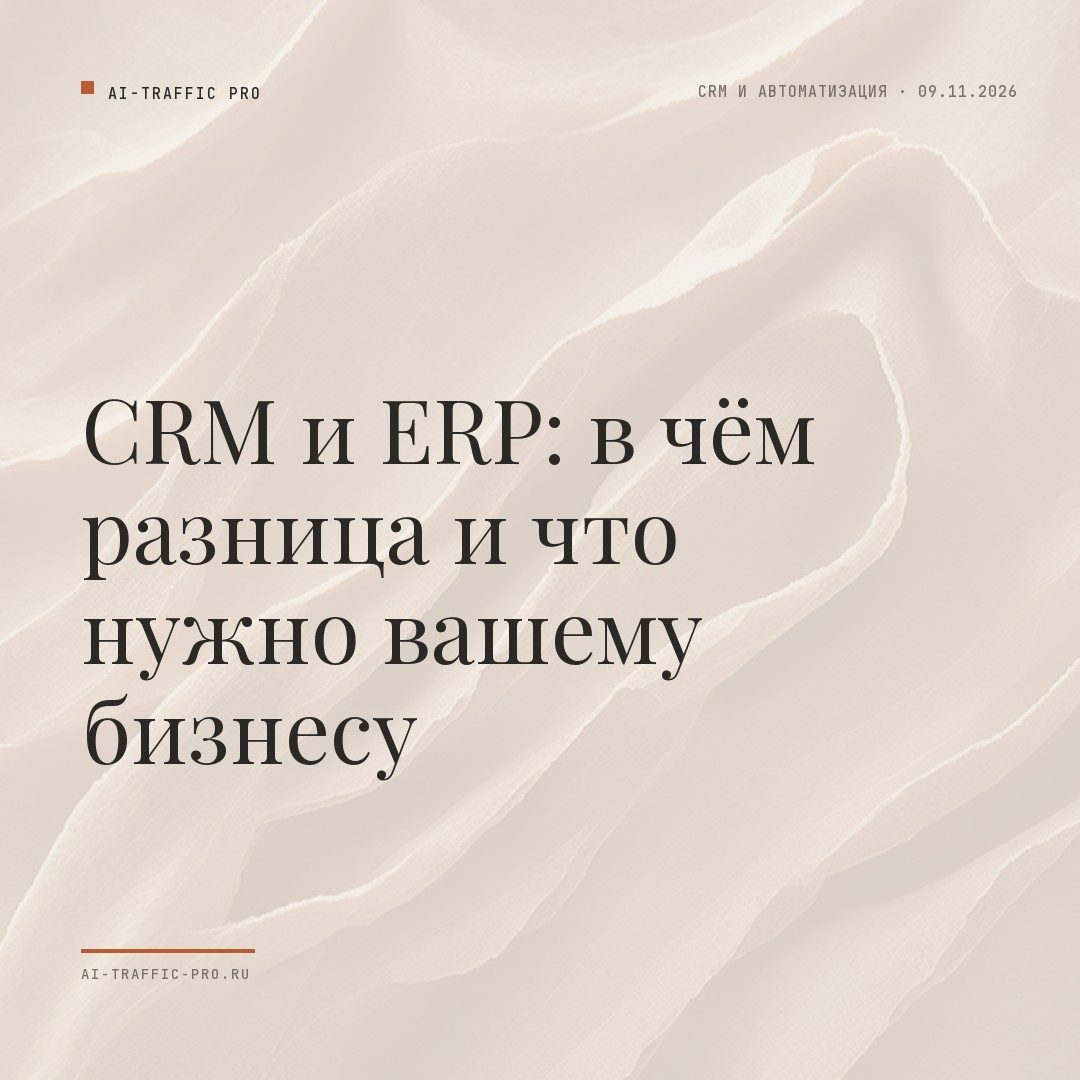
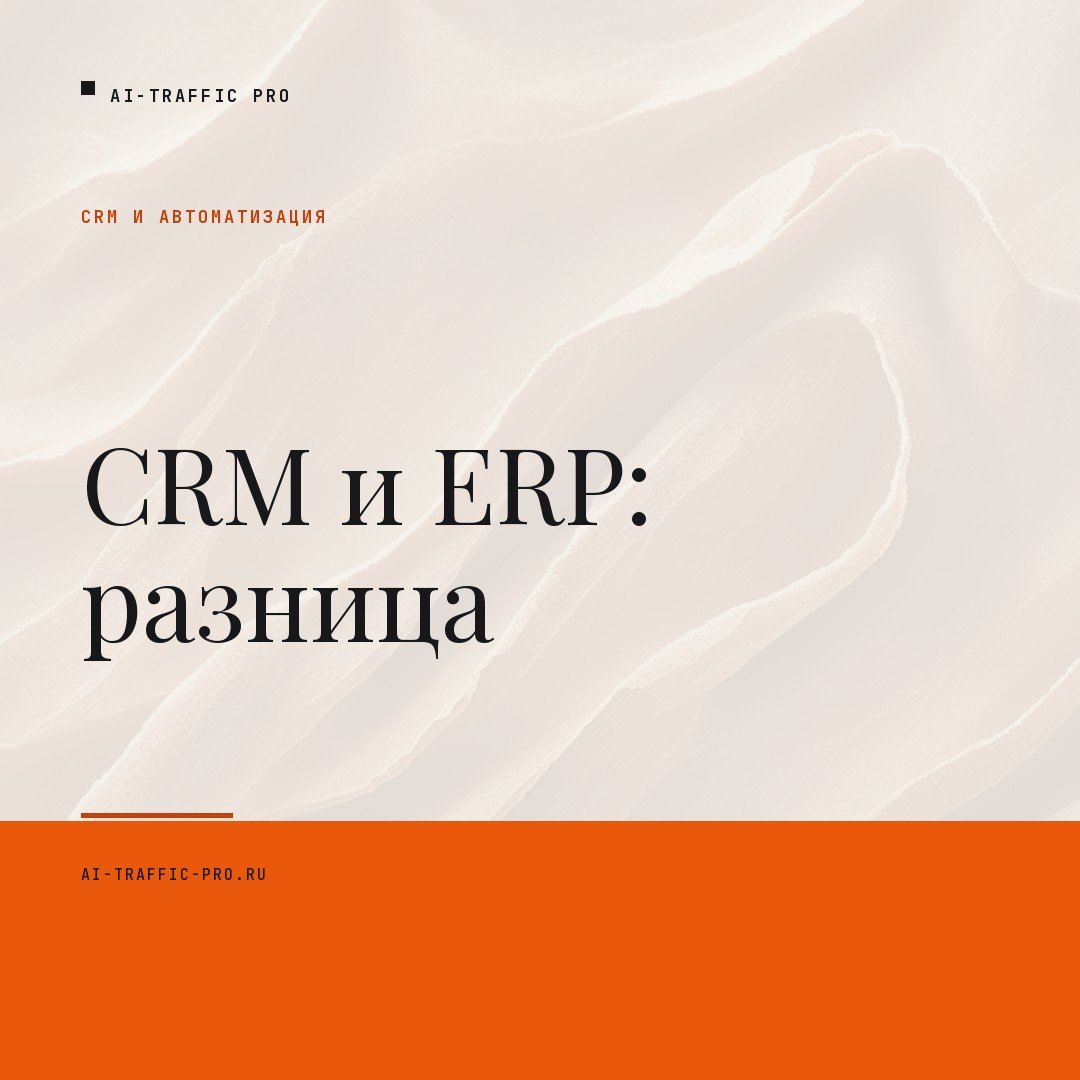
feat(covers): обложки в палитре сайта, стиль accent
Обложки жили на приглушённом кирпичном #b85c38, которого нет в палитре
сайта, а рубрика и дата на превью 300 px были неразличимы.

- стили paper/poster/accent/figure в make_cover.py; выбран accent —
  светлый фон + крупная терракотовая плашка;
- палитра из global.css: stone-900 #18181b, terracotta #c2410c/#ea580c;
- fit_title проверяет ширину самого слова, а не только число строк:
  «Окупаемость» больше не наезжает на плашку;
- убраны мелкие подписи (дата на обложке не нужна — она в посте),
  рубрика и логотип крупнее;
- tools/covers/make_all.py — единый список слагов/заголовков/рубрик,
  пересборка всех 11 статей парами og + square.

Тесты 153, astro check чист, сборка 25 страниц.

diff --git a/tools/covers/make_cover.py b/tools/covers/make_cover.py
@@ -33,9 +33,13 @@ ROOT = Path(__file__).resolve().parents[2]
 FONTS = ROOT / "assets" / "fonts"
 DEFAULT_TEXTURE = ROOT / "assets" / "covers" / "texture-paper.jpg"
 
-IVORY = (244, 239, 232)
-INK = (43, 41, 38)
-TERRACOTTA = (184, 92, 56)
+# Палитра сайта (src/styles/global.css): stone-900 #18181b, terracotta-500
+# #ea580c, terracotta-700 #c2410c. Раньше обложки жили на приглушённом
+# кирпичном #b85c38 — он не совпадал с кнопками сайта и выглядел пыльно.
+IVORY = (247, 243, 238)
+INK = (24, 24, 27)
+TERRACOTTA = (194, 65, 12)
+ACCENT = (234, 88, 12)
 MUTED = (122, 114, 105)
 
 SIZES = {
@@ -87,7 +91,30 @@ def wrap(draw, text, fnt, max_width):
     return lines
 
 
-def build(size_name: str, title: str, tag: str, date: str, texture: Path, out: Path) -> Path:
+def fit_title(draw, title: str, max_width: float, max_lines: int,
+              start: int, floor: int, ratio: float = 1.1, path: Path | None = None):
+    """Подбирает кегль так, чтобы заголовок влез в max_lines строк.
+
+    Кегль — главный инструмент читаемости: в ленте Telegram обложка видна
+    шириной ~300 px, поэтому всё мельче 40 px исходных 1200 превращается
+    в серую пыль.
+    """
+    size = start
+    lines: list[str] = []
+    while size >= floor:
+        fnt = font(path or (FONTS / "PlayfairDisplay.ttf"), size)
+        lines = wrap(draw, title, fnt, max_width)
+        # Проверяем и длину строк: длинное слово не переносится, и без этой
+        # проверки «Окупаемость» вылезает за блок и наезжает на плашку.
+        widest = max((draw.textlength(line, font=fnt) for line in lines), default=0)
+        if len(lines) <= max_lines and widest <= max_width:
+            return fnt, lines, size
+        size -= 4
+    fnt = font(path or (FONTS / "PlayfairDisplay.ttf"), floor)
+    return fnt, wrap(draw, title, fnt, max_width), floor
+
+
+def _paper(size_name: str, title: str, tag: str, date: str, texture: Path, out: Path) -> Path:
     w, h = SIZES[size_name]
     canvas = Image.new("RGB", (w, h), IVORY)
 
@@ -136,9 +163,193 @@ def build(size_name: str, title: str, tag: str, date: str, texture: Path, out: P
     tracked(draw, (pad, rule_y + round(h * 0.013)), "AI-TRAFFIC-PRO.RU", site, MUTED,
             spacing=max(1, round(w * 0.0016)))
 
+    return _save(canvas, out)
+
+
+def _poster(size_name: str, title: str, tag: str, date: str, texture: Path, out: Path) -> Path:
+    """Тёмный плакат: крупный заголовок, высокая контрастность в ленте.
+
+    Проблема светлой обложки в Telegram: она сливается с фоном ленты, а
+    мелкие надписи превращаются в пыль на превью шириной 300 px. Здесь фон
+    тёмно-серый (цвет сайта), заголовок — самый крупный объект.
+    """
+    w, h = SIZES[size_name]
+    canvas = Image.new("RGB", (w, h), INK)
+
+    if texture.exists():
+        tex = Image.open(texture).convert("RGB")
+        tex = fit_cover(tex, (w, h)).filter(ImageFilter.GaussianBlur(0.4))
+        canvas = Image.blend(canvas, tex, 0.06)
+
+    draw = ImageDraw.Draw(canvas)
+    pad = round(w * 0.075)
+    mono = font(FONTS / "JetBrainsMono.ttf", max(17, round(w * 0.018)), "Bold")
+    site_size = max(14, round(w * 0.014))
+
+    # Марка и имя: контраст «светлое на тёмном»
+    mark = max(12, round(w * 0.012))
+    draw.rectangle([pad, pad, pad + mark, pad + mark], fill=TERRACOTTA)
+    tracked(draw, (pad + mark + round(w * 0.015), pad + round(w * 0.003)),
+            "AI-TRAFFIC PRO", mono, IVORY, spacing=max(2, round(w * 0.003)))
+
+    # Рубрика терракотой — единственный акцент сверху
+    tracked(draw, (pad, pad + round(h * 0.105)), tag.upper(), mono, ACCENT,
+            spacing=max(2, round(w * 0.003)))
+
+    # Заголовок: 3 строки, крупно
+    box_w = round(w * (0.84 if size_name != "square" else 0.86))
+    fnt, lines, size = fit_title(
+        draw, title, box_w, 3,
+        start=round(w * 0.125), floor=round(w * 0.072),
+    )
+    y = round(h * 0.33) if size_name != "square" else round(h * 0.36)
+    for line in lines:
+        draw.text((pad, y), line, font=fnt, fill=IVORY)
+        y += round(size * 1.08)
+
+    rule_y = h - pad - round(h * 0.05)
+    draw.line([(pad, rule_y), (pad + round(w * 0.22), rule_y)],
+              fill=TERRACOTTA, width=max(3, round(h * 0.006)))
+    tracked(draw, (pad, rule_y + round(h * 0.018)), "AI-TRAFFIC-PRO.RU",
+            font(FONTS / "JetBrainsMono.ttf", site_size, "Medium"), (196, 186, 176),
+            spacing=max(1, round(w * 0.0018)))
+
+    return _save(canvas, out)
+
+
+def _accent(size_name: str, title: str, tag: str, date: str, texture: Path, out: Path) -> Path:
+    """Светлый фон + крупный терракотовый блок: цвет сайта работает пятном.
+
+    Пятно цвета держит глаз в ленте, а заголовок остаётся чёрным на светлом —
+    это самый читаемый вариант для длинных русских заголовков.
+    """
+    w, h = SIZES[size_name]
+    canvas = Image.new("RGB", (w, h), IVORY)
+
+    if texture.exists():
+        tex = Image.open(texture).convert("RGB")
+        tex = fit_cover(tex, (w, h)).filter(ImageFilter.GaussianBlur(0.4))
+        canvas = Image.blend(tex, Image.new("RGB", (w, h), IVORY), 0.90)
+
+    draw = ImageDraw.Draw(canvas)
+    pad = round(w * 0.075)
+
+    # Блок цвета: справа у «широких» размеров, снизу у квадрата.
+    if size_name == "square":
+        band = [0, round(h * 0.76), w, h]
+    else:
+        band = [round(w * 0.70), 0, w, h]
+    draw.rectangle(band, fill=ACCENT)
+
+    mono = font(FONTS / "JetBrainsMono.ttf", max(15, round(w * 0.0155)), "Bold")
+    mark = max(12, round(w * 0.012))
+    draw.rectangle([pad, pad, pad + mark, pad + mark], fill=INK)
+    tracked(draw, (pad + mark + round(w * 0.015), pad + round(w * 0.003)),
+            "AI-TRAFFIC PRO", mono, INK, spacing=max(2, round(w * 0.0028)))
+
+    tracked(draw, (pad, pad + round(h * 0.115)), tag.upper(), mono, TERRACOTTA,
+            spacing=max(2, round(w * 0.003)))
+
+    # 0.58 от ширины — это ~20 px воздуха до плашки: раньше заголовок
+    # прилипал к цветному блоку и на превью казался обрезанным.
+    box_w = round(w * (0.52 if size_name != "square" else 0.85))
+    fnt, lines, size = fit_title(draw, title, box_w, 4,
+                                 start=round(w * 0.098), floor=round(w * 0.058))
+    y = round(h * 0.36) if size_name != "square" else round(h * 0.38)
+    for line in lines:
+        draw.text((pad, y), line, font=fnt, fill=INK)
+        y += round(size * 1.1)
+
+    # Адрес — на светлой части, чтобы не спорить с блоком
+    site_y = h - pad - round(h * 0.03) if size_name != "square" else round(h * 0.80)
+    draw.line([(pad, site_y - round(h * 0.045)), (pad + round(w * 0.14), site_y - round(h * 0.045))],
+              fill=TERRACOTTA, width=max(3, round(h * 0.005)))
+    tracked(draw, (pad, site_y), "AI-TRAFFIC-PRO.RU",
+            font(FONTS / "JetBrainsMono.ttf", max(13, round(w * 0.0135)), "Medium"), INK,
+            spacing=max(1, round(w * 0.0017)))
+
+    return _save(canvas, out)
+
+
+def _figure(size_name: str, title: str, tag: str, date: str, texture: Path, out: Path,
+            figure: str = "") -> Path:
+    """Тёмный фон и огромная цифра: пост про конкретный результат.
+
+    Предмет статьи у многих материалов — число (ROMI, срок, доля). Крупная
+    цифра читается даже в крошечном превью, где заголовок уже не разобрать.
+    """
+    w, h = SIZES[size_name]
+    canvas = Image.new("RGB", (w, h), INK)
+
+    if texture.exists():
+        tex = Image.open(texture).convert("RGB")
+        tex = fit_cover(tex, (w, h)).filter(ImageFilter.GaussianBlur(0.4))
+        canvas = Image.blend(canvas, tex, 0.06)
+
+    draw = ImageDraw.Draw(canvas)
+    pad = round(w * 0.075)
+    mono = font(FONTS / "JetBrainsMono.ttf", max(17, round(w * 0.018)), "Bold")
+
+    mark = max(12, round(w * 0.012))
+    draw.rectangle([pad, pad, pad + mark, pad + mark], fill=TERRACOTTA)
+    tracked(draw, (pad + mark + round(w * 0.015), pad + round(w * 0.003)),
+            "AI-TRAFFIC PRO", mono, IVORY, spacing=max(2, round(w * 0.0028)))
+    tracked(draw, (pad, pad + round(h * 0.10)), tag.upper(), mono, ACCENT,
+            spacing=max(2, round(w * 0.003)))
+
+    if figure:
+        # Цифра главная: кегль подбирается по ширине и высоте, не по строкам.
+        number = figure.strip()
+        size = round(h * 0.46)
+        fnt = font(FONTS / "PlayfairDisplay.ttf", size)
+        while draw.textlength(number, font=fnt) > w * 0.86 and size > 40:
+            size -= 6
+            fnt = font(FONTS / "PlayfairDisplay.ttf", size)
+        ny = round(h * 0.47) - round(size * 0.52) if size_name != "square" else round(h * 0.52)
+        draw.text((pad, ny), number, font=fnt, fill=ACCENT)
+
+    # Заголовок — ниже цифры, короткими строками
+    box_w = round(w * 0.78)
+    fnt, lines, size = fit_title(draw, title, box_w, 2,
+                                 start=round(w * 0.058), floor=round(w * 0.04))
+    # Ставим по нижнему краю: иначе на узких размерах заголовок уходит под срез.
+    block = round(len(lines) * size * 1.08)
+    y = h - round(h * 0.14) - block
+    for line in lines:
+        draw.text((pad, y), line, font=fnt, fill=IVORY)
+        y += round(size * 1.1)
+
+    tracked(draw, (w - pad - draw.textlength("AI-TRAFFIC-PRO.RU",
+                                             font=font(FONTS / "JetBrainsMono.ttf", max(13, round(w * 0.013)), "Medium")) - round(w * 0.004),
+                   h - pad - round(h * 0.035)),
+            "AI-TRAFFIC-PRO.RU", font(FONTS / "JetBrainsMono.ttf", max(13, round(w * 0.013)), "Medium"),
+            (196, 186, 176), spacing=max(1, round(w * 0.0016)))
+
+    return _save(canvas, out)
+
+
+def _save(canvas: Image.Image, out: Path) -> Path:
     out.parent.mkdir(parents=True, exist_ok=True)
     canvas.save(out, "JPEG", quality=90, optimize=True, progressive=True)
     return out
+
+
+STYLE_BUILDERS = {
+    "paper": _paper,
+    "poster": _poster,
+    "accent": _accent,
+    "figure": _figure,
+}
+
+
+def build(size_name: str, title: str, tag: str, date: str, texture: Path, out: Path,
+          style: str = "paper", figure: str = "") -> Path:
+    builder = STYLE_BUILDERS.get(style)
+    if builder is None:
+        raise SystemExit(f"неизвестный стиль: {style} (есть: {', '.join(STYLE_BUILDERS)})")
+    if style == "figure":
+        return builder(size_name, title, tag, date, texture, out, figure)
+    return builder(size_name, title, tag, date, texture, out)
 
 
 def main() -> int:
@@ -152,6 +363,9 @@ def main() -> int:
     ap.add_argument("--tag", default="БЛОГ", help="рубрика, капсом")
     ap.add_argument("--date", default="", help="дата для угла, напр. 09.11.2026")
     ap.add_argument("--texture", default=str(DEFAULT_TEXTURE), help="фоновая текстура")
+    ap.add_argument("--style", default="paper", choices=sorted(STYLE_BUILDERS),
+                    help="paper (светлая) | poster (тёмная) | accent (пятно цвета) | figure (крупная цифра)")
+    ap.add_argument("--figure", default="", help="цифра для стиля figure, напр. 215%%")
     ap.add_argument("--size", action="append", choices=sorted(SIZES), help="og | square | dzen (можно несколько)")
     ap.add_argument("--out-dir", default=str(ROOT / "public" / "blog"), help="куда положить файлы")
     ap.add_argument("--dry-run", action="store_true", help="показать план и выйти")
@@ -171,7 +385,8 @@ def main() -> int:
         return 0
 
     for s, p in plan:
-        print(build(s, args.title, args.tag, args.date, Path(args.texture), p))
+        print(build(s, args.title, args.tag, args.date, Path(args.texture), p,
+                    style=args.style, figure=args.figure))
     return 0
 
 

diff --git a/tools/covers/make_all.py b/tools/covers/make_all.py
@@ -1,0 +1,72 @@
+#!/usr/bin/env python3
+"""Пересобирает все обложки блога в стиле `accent` (светлый фон + плашка цвета).
+
+Зачем отдельный файл: обложки нужны парами (og 1200×630 и квадрат 1080×1080),
+и собирать их руками по одной — гарантированная рассинхронизация через месяц.
+Здесь один список: слаг, короткий заголовок на обложку, рубрика.
+
+Заголовок на обложке — не `title` статьи: в ленте читается 3–5 слов, всё
+длиннее превращается в серую полосу.
+
+Примеры:
+  python3 tools/covers/make_all.py --dry-run       # показать план
+  python3 tools/covers/make_all.py                 # пересобрать всё
+  python3 tools/covers/make_all.py --only lending-ili-sayt
+"""
+from __future__ import annotations
+
+import argparse
+import sys
+from pathlib import Path
+
+from make_cover import DEFAULT_TEXTURE, ROOT, SIZES, build
+
+STYLE = "accent"
+
+OUT_DIR = ROOT / "public" / "blog"
+
+# слаг: (заголовок на обложке, рубрика)
+COVERS: dict[str, tuple[str, str]] = {
+    "crm-i-erp-raznica": ("CRM и ERP: разница", "CRM И АВТОМАТИЗАЦИЯ"),
+    "geo-prodvizhenie-checklist": ("GEO-продвижение: чек-лист", "SEO И GEO"),
+    "kak-nachat-prodavat-na-marketpleysah": ("Старт на маркетплейсах", "E-COMMERCE"),
+    "kak-schitat-okupaemost-reklamy": ("Окупаемость рекламы", "РЕКЛАМА"),
+    "kak-sostavit-brif-na-prodvizhenie": ("Бриф на продвижение", "КЛИЕНТЫ"),
+    "kak-vybrat-kanal-prodvizheniya": ("Как выбрать канал", "КЛИЕНТЫ"),
+    "kontent-plan-dlya-sotssetey": ("Контент-план для соцсетей", "СОЦСЕТИ"),
+    "lending-ili-sayt": ("Лендинг или сайт", "САЙТЫ"),
+    "mediaplan-i-kontent-plan-raznica": ("Медиаплан и контент-план", "РЕКЛАМА"),
+    "voronka-prodazh-kak-postroit": ("Воронка продаж", "ПРОДАЖИ"),
+    "zayavki-teryayutsya": ("Заявки теряются", "CRM"),
+}
+
+
+def main() -> int:
+    ap = argparse.ArgumentParser(
+        description="Пересобрать обложки блога в стиле accent (og + square).",
+        epilog="Пример: python3 tools/covers/make_all.py --only lending-ili-sayt",
+    )
+    ap.add_argument("--only", help="один слаг вместо всех")
+    ap.add_argument("--dry-run", action="store_true", help="показать план и выйти")
+    args = ap.parse_args()
+
+    items = {args.only: COVERS[args.only]} if args.only else COVERS
+    if args.only and args.only not in COVERS:
+        print(f"нет такого слага: {args.only}", file=sys.stderr)
+        return 2
+
+    for slug, (title, tag) in items.items():
+        for size in ("og", "square"):
+            name = f"{slug}.jpg" if size == "og" else f"{slug}-square.jpg"
+            out = OUT_DIR / name
+            plan = f"{SIZES[size][0]}×{SIZES[size][1]}  {out.relative_to(ROOT)}  «{title}»"
+            if args.dry_run:
+                print("сделал бы:", plan)
+                continue
+            print(build(size, title, tag, "", DEFAULT_TEXTURE, out, style=STYLE))
+
+    return 0
+
+
+if __name__ == "__main__":
+    raise SystemExit(main())

diff --git a/ACTIVE_TASKS.md b/ACTIVE_TASKS.md
@@ -187,6 +187,18 @@
   чтения без набора curl. Проверено на проде: два новых вопроса пришли в лог
   вместе с ответами. Тесты: 48 в воркере, 145 по проекту.
 
+- [x] **Обложки блога в палитре сайта (16.11.2026, Fixed).** Прежние обложки
+  были на приглушённом кирпичном `#b85c38`, которого нет в палитре сайта, а
+  подписи рубрики и даты на превью шириной 300 px превращались в пыль. В
+  `tools/covers/make_cover.py` добавлены стили (`paper`, `poster`, `accent`,
+  `figure`), общий подбор кегля с проверкой ширины слова (иначе
+  «Окупаемость» наезжала на плашку) и палитра из `global.css`: stone-900
+  `#18181b`, terracotta `#c2410c` / `#ea580c`. Выбран стиль `accent`:
+  светлый фон + крупная терракотовая плашка. Все 11 статей пересобраны
+  парами og 1200×630 + square 1080×1080 через `tools/covers/make_all.py`
+  (единый список слагов, заголовков и рубрик). Первый пост в канале
+  опубликован со старой обложкой — перекрывается следующей публикацией.
+
 - [x] **1.9 Аудит индексируемости 18 URL** — ✅ **закрыто 09.11.2026 (Verified
   curl'ом по проду).** Все 18 URL из sitemap → **200**, `canonical` совпадает с
   собственным адресом у всех 18, `noindex` на индексируемых — **нет ни на
